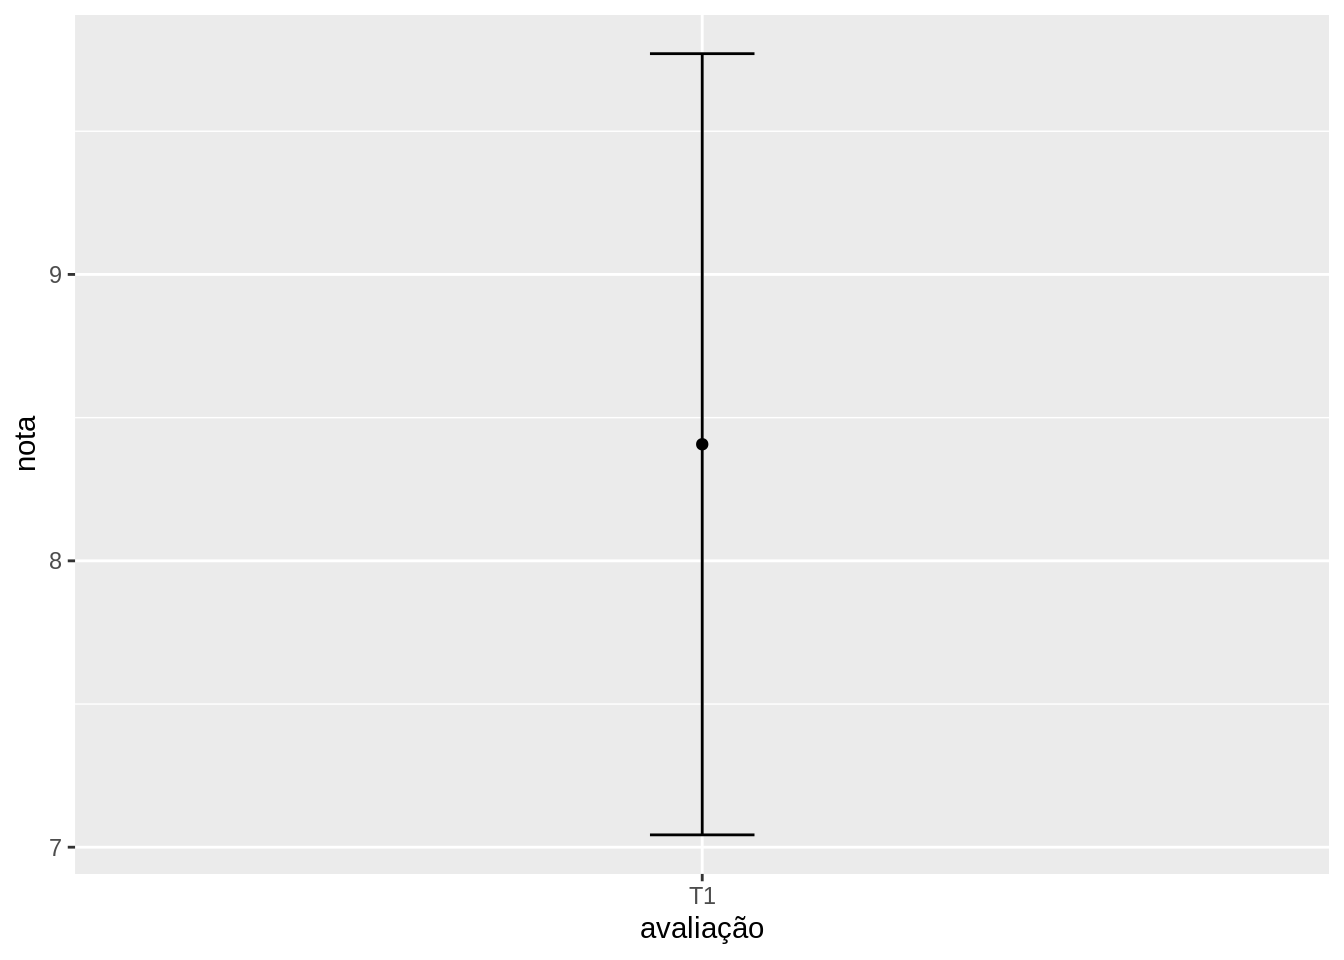
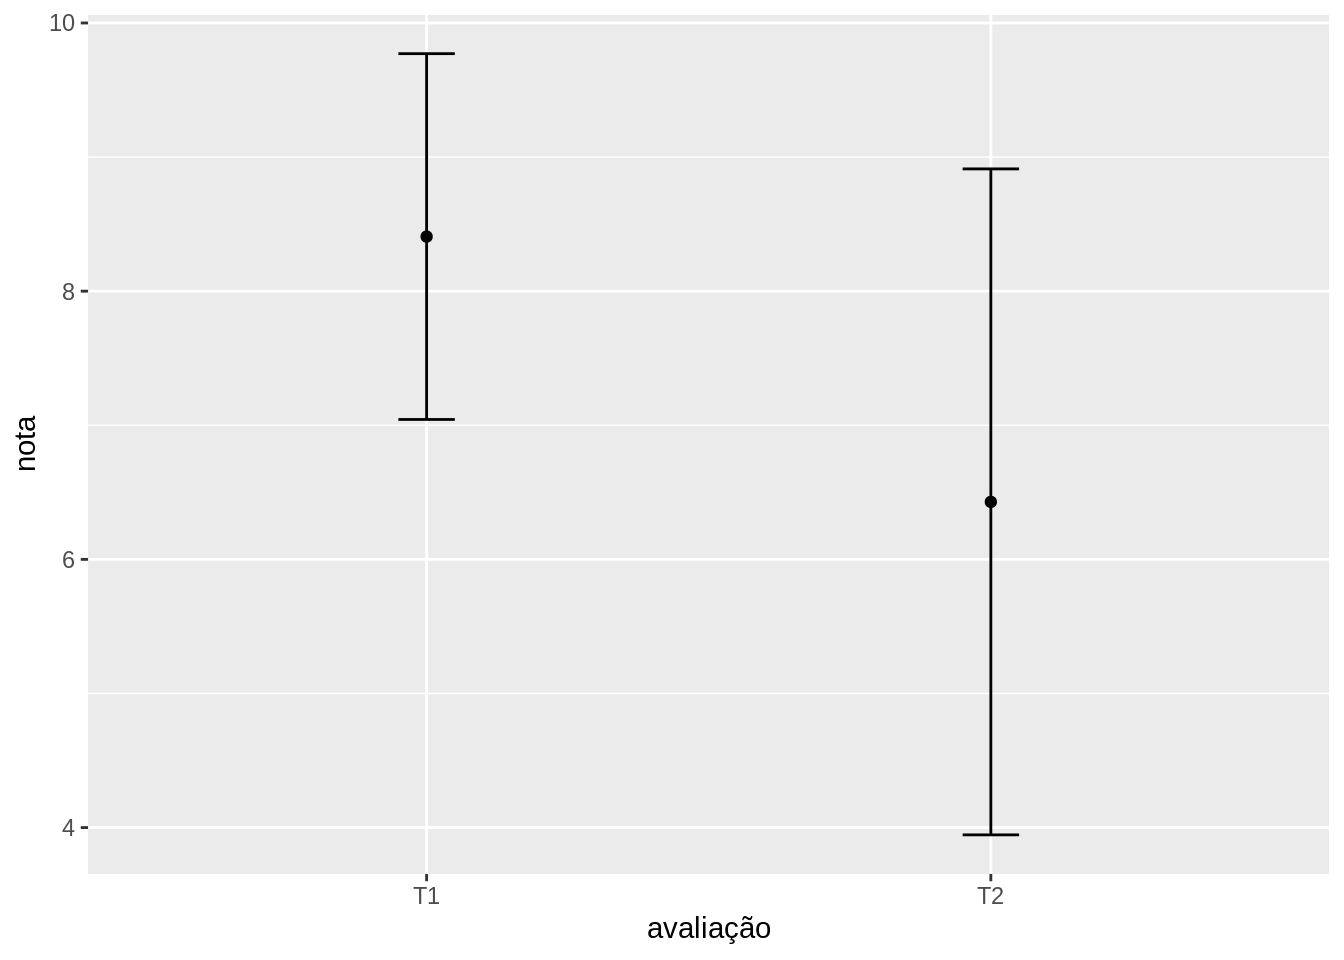
2019_1_each: grades T2.

diff --git a/content/classes/2019_1_each/grades.html b/content/classes/2019_1_each/grades.html
@@ -29,7 +29,7 @@ código de ética desta disciplina e você está reprovado.</p></li>
 <div id="notas" class="section level3">
 <h3>Notas</h3>
 <div id="htmlwidget-1" style="width:100%;height:auto;" class="datatables html-widget"></div>
-<script type="application/json" data-for="htmlwidget-1">{"x":{"filter":"none","data":[[31,69,83,102,116,146,170,181,199,212,239,266,302,318,331,334,339,350,368,374,378,379,561,718,829,2114,2129,5348,5430,5884,5889,7954,9576,9628,9752,9780,9804,9844,9846,9859,9868,9875,9880,9885,9896,9981],[8,8,0,6.5,7,9,4.5,8,9,9,9.5,9,9.5,9,9,9,8,9,9,9,0,9,9,9,7.5,9.5,9.5,9,9,8,6,6,6,0,9,8.5,9,9,9.5,9,9.5,10,9.5,9.5,8.5,4]],"container":"<table class=\"display\">\n  <thead>\n    <tr>\n      <th>RA<\/th>\n      <th>T1<\/th>\n    <\/tr>\n  <\/thead>\n<\/table>","options":{"dom":"ftip","columnDefs":[{"className":"dt-right","targets":[0,1]}],"order":[],"autoWidth":false,"orderClasses":false}},"evals":[],"jsHooks":[]}</script>
+<script type="application/json" data-for="htmlwidget-1">{"x":{"filter":"none","data":[[31,69,83,102,116,146,170,181,199,212,239,266,302,318,331,334,339,350,368,374,378,379,561,718,829,2114,2129,5348,5430,5884,5889,7954,9576,9628,9752,9780,9804,9844,9846,9859,9868,9875,9880,9885,9896,9981],[8,8,0,6.5,7,9,4.5,8,9,9,9.5,9,9.5,9,9,9,8,9,9,9,0,9,9,9,7.5,9.5,9.5,9,9,8,6,6,6,0,9,8.5,9,9,9.5,9,9.5,10,9.5,9.5,8.5,4],[6,10,0,5.5,3,10,7,10,7,8,2,7,10,7,8,7,2,4,5,9,0,5,6.5,6,10,10,9,7,7,3,5,2,2,0,3,4,4,7,6,7,7,10,8,7,7,0]],"container":"<table class=\"display\">\n  <thead>\n    <tr>\n      <th>RA<\/th>\n      <th>T1<\/th>\n      <th>T2<\/th>\n    <\/tr>\n  <\/thead>\n<\/table>","options":{"dom":"ftip","columnDefs":[{"className":"dt-right","targets":[0,1,2]}],"order":[],"autoWidth":false,"orderClasses":false}},"evals":[],"jsHooks":[]}</script>
 </div>
 <div id="graficos" class="section level3">
 <h3>Gráficos</h3>
